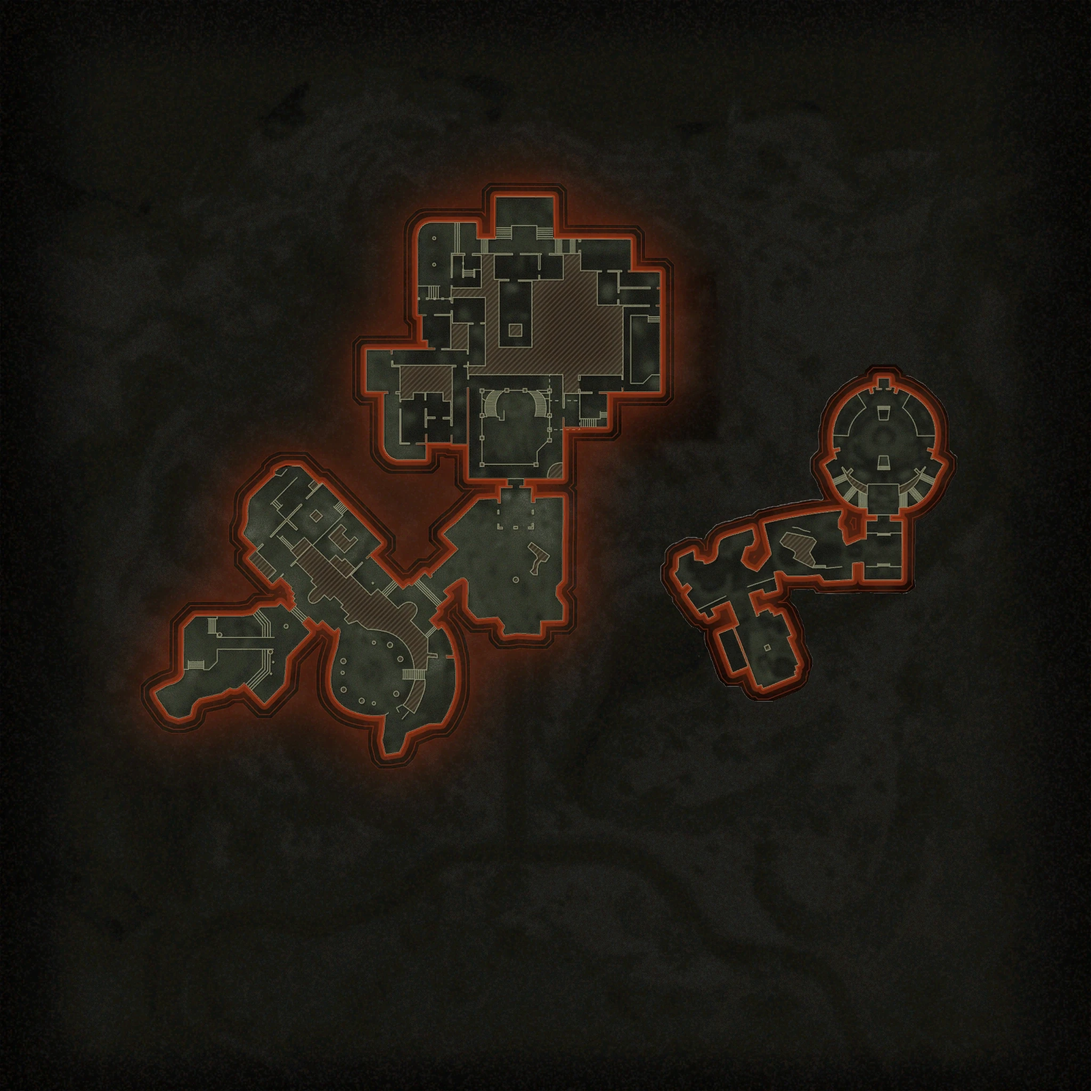
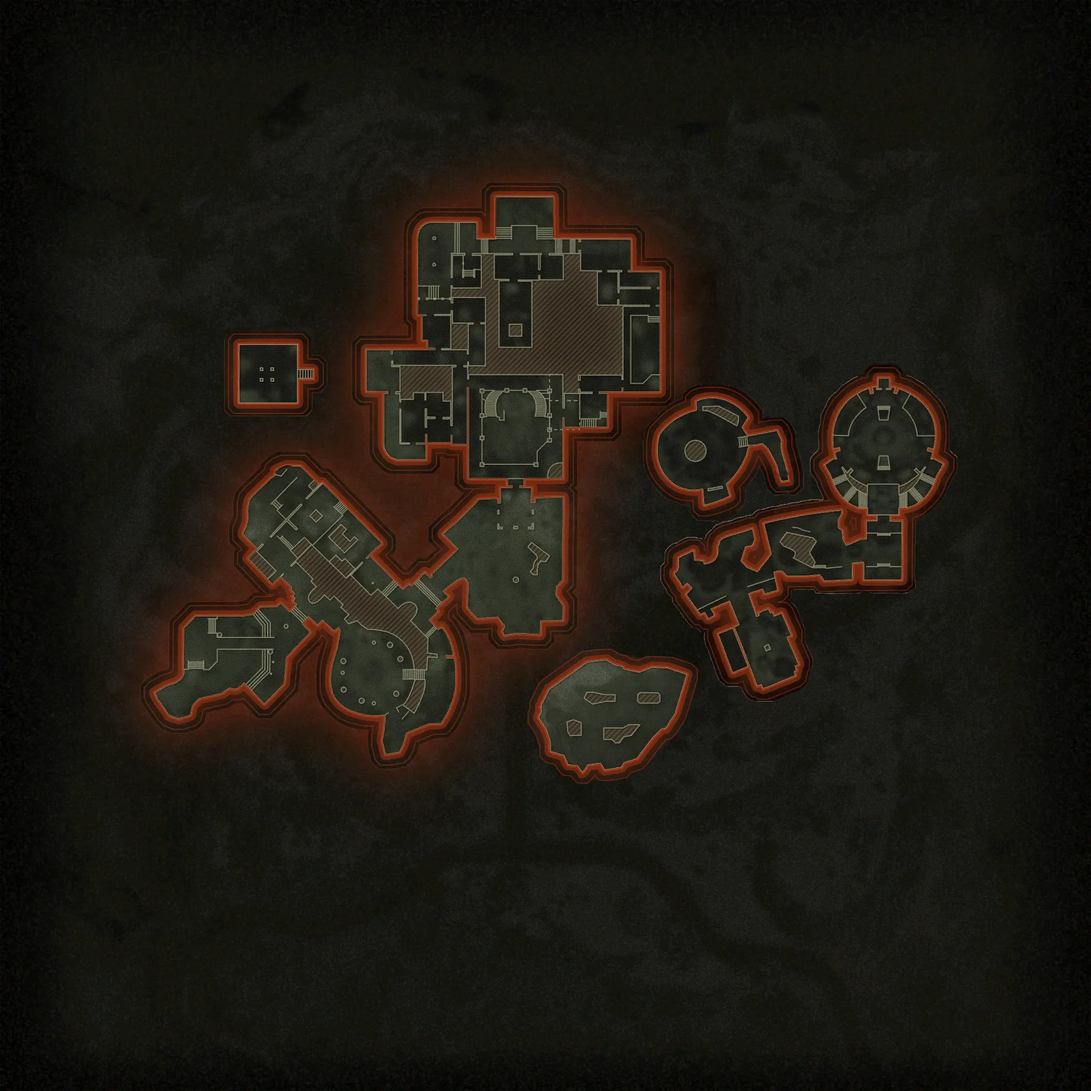
feat: Add new label markers for Serpent Mound, Distillery, and Ravine; update weapon wall buy location for PU-21 in shattered veil configuration

Changed region(s): [[0.4688, 0.5938, 0.6562, 0.7188], [0.5938, 0.3438, 0.75, 0.4688], [0.1875, 0.2812, 0.3125, 0.375]]

diff --git a/mapConfigs/shattered-veil.ts b/mapConfigs/shattered-veil.ts
@@ -215,6 +215,30 @@ const shatteredVeil: MapConfig = {
       locations: [{ x: 0.671, y: 0.597 }]
     },
     {
+      id: "serpent-mound",
+      type: "label",
+      title: "Serpent Mound",
+      description: "",
+      icon: null,
+      locations: [{ x: 0.641, y: 0.414 }]
+    },
+    {
+      id: "distillery",
+      type: "label",
+      title: "Distillery",
+      description: "",
+      icon: null,
+      locations: [{ x: 0.245, y: 0.344 }]
+    },
+    {
+      id: "ravine",
+      type: "label",
+      title: "Ravine",
+      description: "",
+      icon: null,
+      locations: [{ x: 0.559, y: 0.657 }]
+    },
+    {
       ...perks["quick-revive"],
       locations: [{ x: 0.231, y: 0.473 }]
     },
@@ -257,7 +281,10 @@ const shatteredVeil: MapConfig = {
         { x: 0.575, y: 0.328 },
         { x: 0.492, y: 0.184 },
         { x: 0.772, y: 0.378 },
-        { x: 0.631, y: 0.510 }
+        { x: 0.631, y: 0.510 },
+        { x: 0.561, y: 0.702 },
+        { x: 0.557, y: 0.609 },
+        { x: 0.658, y: 0.457 }
       ]
     },
     {
@@ -504,6 +531,14 @@ const shatteredVeil: MapConfig = {
       icon: "/icons/weapon-wall-buy.webp",
       type: "weapon-wall-buy",
       locations: [{ x: 0.7015, y: 0.590 }]
+    },
+    {
+      id: "pu-21",
+      title: "PU-21",
+      description: "Purchase a PU-21 Light Machine Gun off the wall.",
+      icon: "/icons/weapon-wall-buy.webp",
+      type: "weapon-wall-buy",
+      locations: [{ x: 0.607, y: 0.425 }]
     }
   ]
 }
